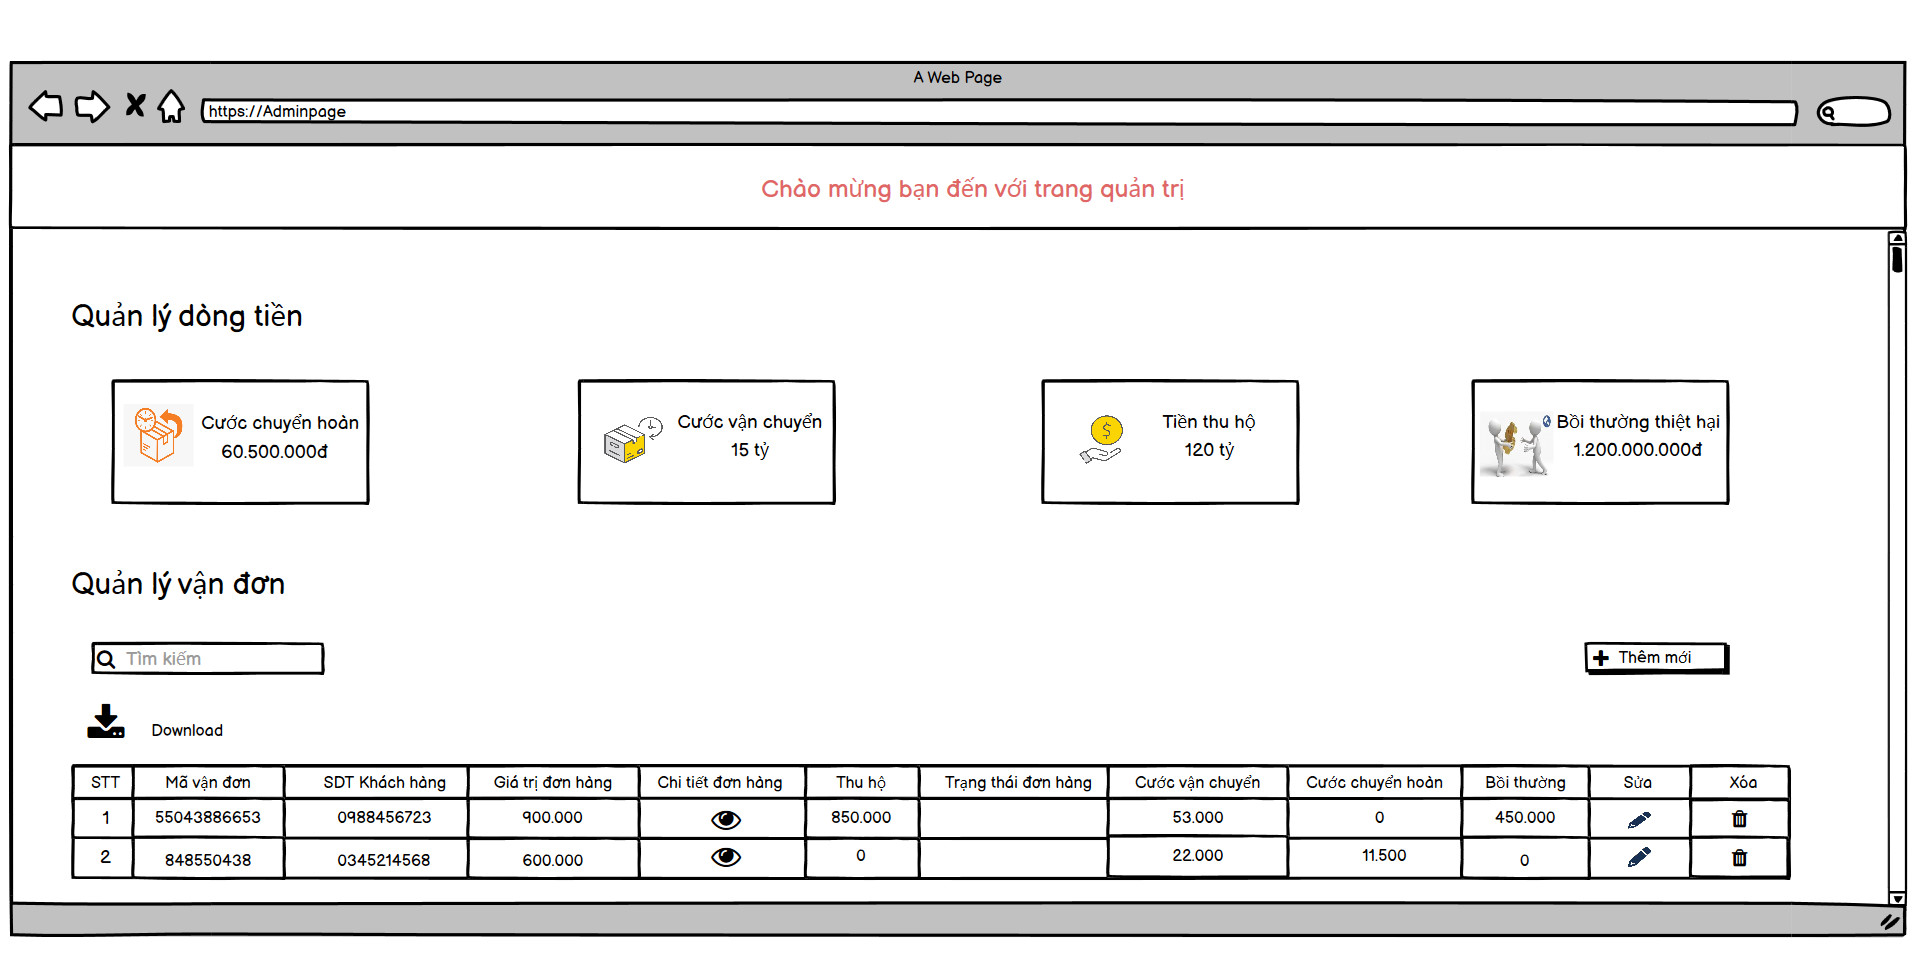
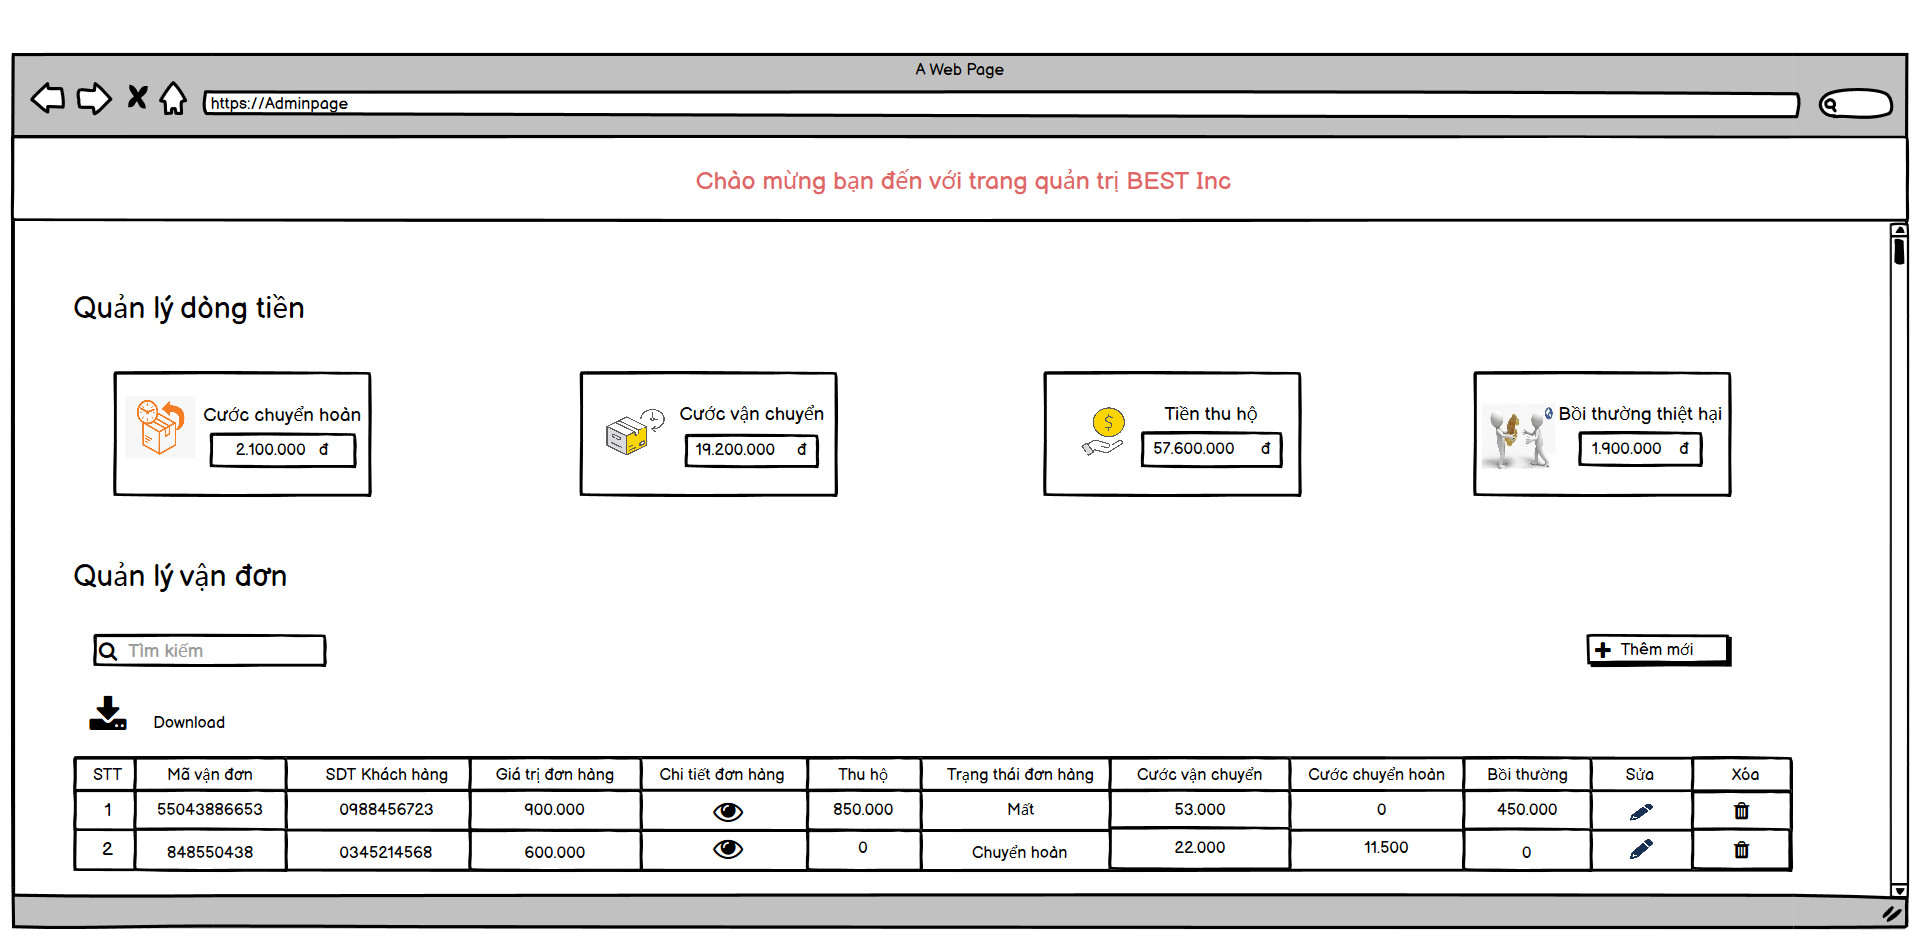
Update lại bản thiết kế trang quản trị

diff --git a/Adminpage/Index_Adminpage.html b/Adminpage/Index_Adminpage.html
@@ -1,0 +1,17 @@
+<!DOCTYPE html>
+<html lang="en">
+<head>
+    <meta charset="UTF-8">
+    <meta http-equiv="X-UA-Compatible" content="IE=edge">
+    <meta name="viewport" content="width=device-width, initial-scale=1.0">
+    <title>Admin page</title>
+    <link rel="stylesheet" href="style_Adminpage.css">
+</head>
+<body>
+    <div class="Adminpage">
+        <h1>Chào mừng bạn đến với trang quản trị BEST Inc</h1>
+        <hr>
+        <h2>Quản lý dòng tiền</h2>
+    </div>
+</body>
+</html>

diff --git a/Adminpage/style_Adminpage.css b/Adminpage/style_Adminpage.css
@@ -1,0 +1,8 @@
+.Adminpage h1{
+    text-align: center;
+    color: palevioletred;
+}
+
+.Adminpage h2{
+    padding-left: 50px;
+}
